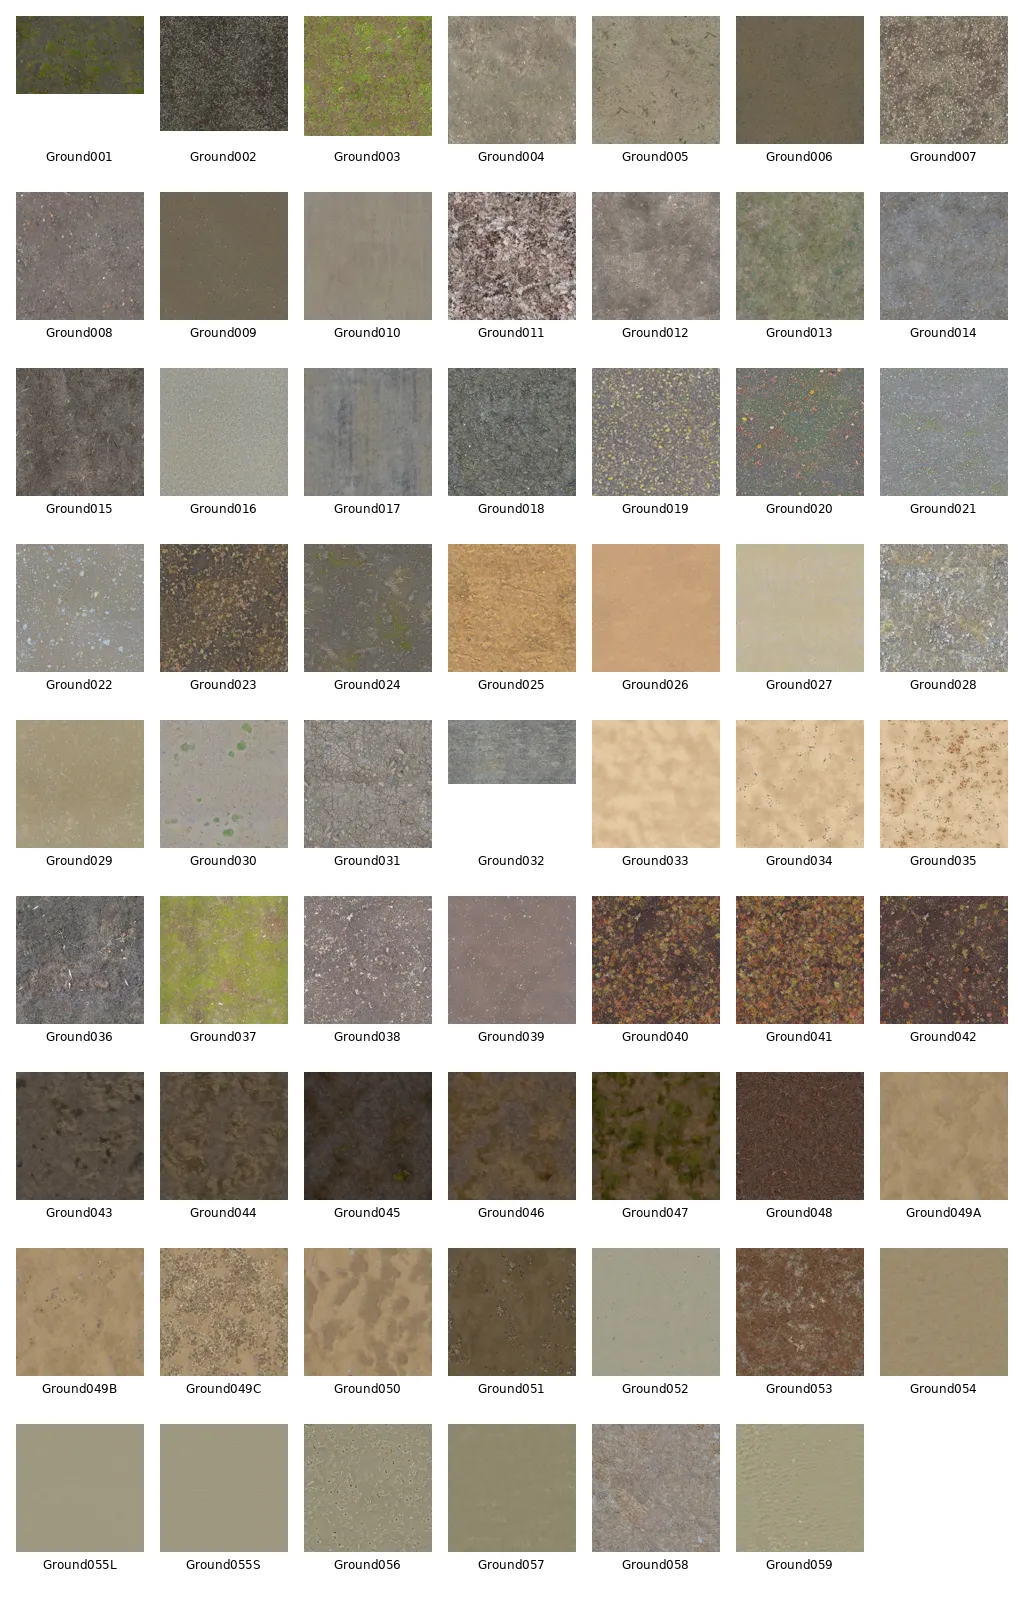
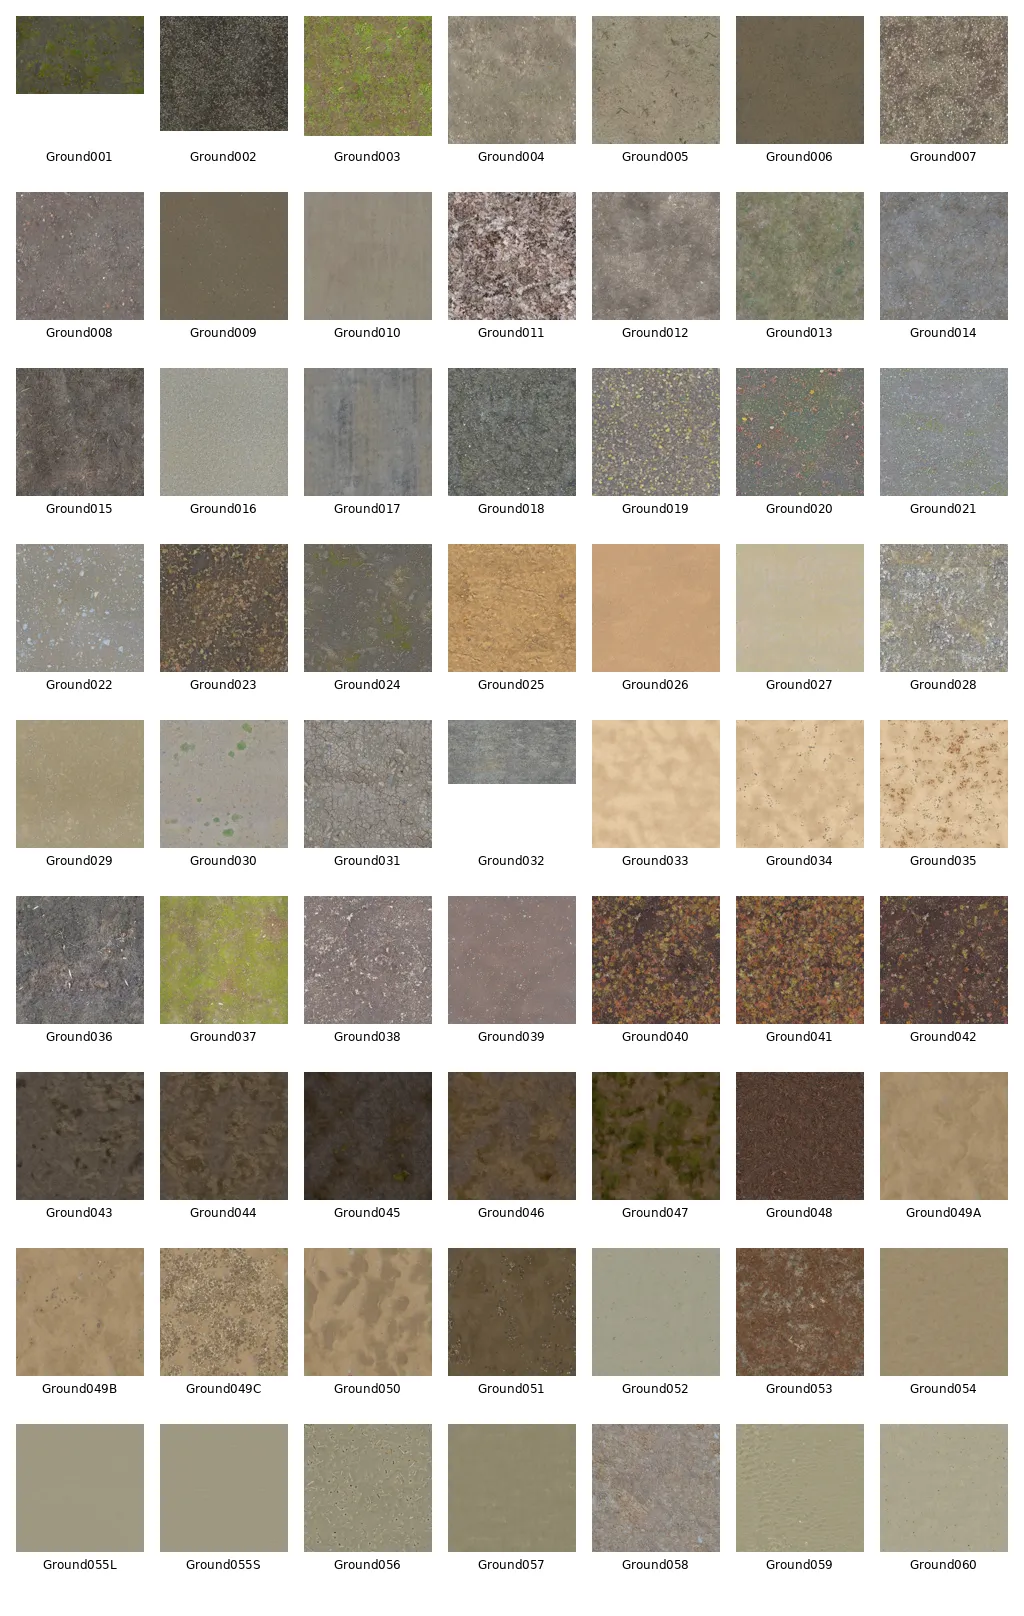
version: v2023.02.27

Changed region(s): [[0.8438, 0.8663, 1.0, 0.9901]]

diff --git a/README.md b/README.md
@@ -5,19 +5,19 @@ The texture are resized to 3 sizes, so you can choose quality.
 
 3 qualities available: 256, 512 and 1024 pixels width.
 
-Current version: 2022.12.31<br>
-Total textures: 1148
+Current version: 2023.02.27<br>
+Total textures: 1173
 
 ## Install
 
 Just download the .sh3t file you want and use the texture library import feature from Sweethome3D from "Furniture" menu.
 
 
-* [ambientcg_1024.sh3t](https://fenouil-drive.mycozy.cloud/public?sharecode=QyiDq6EIACQi) - 172.3 MB
+* [ambientcg_1024.sh3t](https://fenouil-drive.mycozy.cloud/public?sharecode=QyiDq6EIACQi) - 175.2 MB
 
-* [ambientcg_512.sh3t](https://fenouil-drive.mycozy.cloud/public?sharecode=u2Ps0zAB8cij) - 45.5 MB
+* [ambientcg_512.sh3t](https://fenouil-drive.mycozy.cloud/public?sharecode=u2Ps0zAB8cij) - 46.1 MB
 
-* [ambientcg_256.sh3t](https://fenouil-drive.mycozy.cloud/public?sharecode=3gsbVKG3PFBM) - 12.5 MB
+* [ambientcg_256.sh3t](https://fenouil-drive.mycozy.cloud/public?sharecode=3gsbVKG3PFBM) - 12.6 MB
 
 
 ## Missing dimensions
@@ -58,215 +58,220 @@ The current code and content follow the same licence.
 
 ### Asphalt
 <picture>
-  <img alt="Preview of Asphalt" src="https://raw.githubusercontent.com/fabien-michel/sweethome3d-textures-ambientcg/v2022.12.31/previews/Asphalt.webp">
+  <img alt="Preview of Asphalt" src="https://raw.githubusercontent.com/fabien-michel/sweethome3d-textures-ambientcg/v2023.02.27/previews/Asphalt.webp">
+</picture>
+
+### Bamboo
+<picture>
+  <img alt="Preview of Bamboo" src="https://raw.githubusercontent.com/fabien-michel/sweethome3d-textures-ambientcg/v2023.02.27/previews/Bamboo.webp">
 </picture>
 
 ### Bark
 <picture>
-  <img alt="Preview of Bark" src="https://raw.githubusercontent.com/fabien-michel/sweethome3d-textures-ambientcg/v2022.12.31/previews/Bark.webp">
+  <img alt="Preview of Bark" src="https://raw.githubusercontent.com/fabien-michel/sweethome3d-textures-ambientcg/v2023.02.27/previews/Bark.webp">
 </picture>
 
 ### Bricks
 <picture>
-  <img alt="Preview of Bricks" src="https://raw.githubusercontent.com/fabien-michel/sweethome3d-textures-ambientcg/v2022.12.31/previews/Bricks.webp">
+  <img alt="Preview of Bricks" src="https://raw.githubusercontent.com/fabien-michel/sweethome3d-textures-ambientcg/v2023.02.27/previews/Bricks.webp">
 </picture>
 
 ### Cardboard
 <picture>
-  <img alt="Preview of Cardboard" src="https://raw.githubusercontent.com/fabien-michel/sweethome3d-textures-ambientcg/v2022.12.31/previews/Cardboard.webp">
+  <img alt="Preview of Cardboard" src="https://raw.githubusercontent.com/fabien-michel/sweethome3d-textures-ambientcg/v2023.02.27/previews/Cardboard.webp">
 </picture>
 
 ### Carpet
 <picture>
-  <img alt="Preview of Carpet" src="https://raw.githubusercontent.com/fabien-michel/sweethome3d-textures-ambientcg/v2022.12.31/previews/Carpet.webp">
+  <img alt="Preview of Carpet" src="https://raw.githubusercontent.com/fabien-michel/sweethome3d-textures-ambientcg/v2023.02.27/previews/Carpet.webp">
 </picture>
 
 ### Chainmail
 <picture>
-  <img alt="Preview of Chainmail" src="https://raw.githubusercontent.com/fabien-michel/sweethome3d-textures-ambientcg/v2022.12.31/previews/Chainmail.webp">
+  <img alt="Preview of Chainmail" src="https://raw.githubusercontent.com/fabien-michel/sweethome3d-textures-ambientcg/v2023.02.27/previews/Chainmail.webp">
 </picture>
 
 ### Chipboard
 <picture>
-  <img alt="Preview of Chipboard" src="https://raw.githubusercontent.com/fabien-michel/sweethome3d-textures-ambientcg/v2022.12.31/previews/Chipboard.webp">
+  <img alt="Preview of Chipboard" src="https://raw.githubusercontent.com/fabien-michel/sweethome3d-textures-ambientcg/v2023.02.27/previews/Chipboard.webp">
 </picture>
 
 ### Clay
 <picture>
-  <img alt="Preview of Clay" src="https://raw.githubusercontent.com/fabien-michel/sweethome3d-textures-ambientcg/v2022.12.31/previews/Clay.webp">
+  <img alt="Preview of Clay" src="https://raw.githubusercontent.com/fabien-michel/sweethome3d-textures-ambientcg/v2023.02.27/previews/Clay.webp">
 </picture>
 
 ### Concrete
 <picture>
-  <img alt="Preview of Concrete" src="https://raw.githubusercontent.com/fabien-michel/sweethome3d-textures-ambientcg/v2022.12.31/previews/Concrete.webp">
+  <img alt="Preview of Concrete" src="https://raw.githubusercontent.com/fabien-michel/sweethome3d-textures-ambientcg/v2023.02.27/previews/Concrete.webp">
 </picture>
 
 ### Cork
 <picture>
-  <img alt="Preview of Cork" src="https://raw.githubusercontent.com/fabien-michel/sweethome3d-textures-ambientcg/v2022.12.31/previews/Cork.webp">
+  <img alt="Preview of Cork" src="https://raw.githubusercontent.com/fabien-michel/sweethome3d-textures-ambientcg/v2023.02.27/previews/Cork.webp">
 </picture>
 
 ### CorrugatedSteel
 <picture>
-  <img alt="Preview of CorrugatedSteel" src="https://raw.githubusercontent.com/fabien-michel/sweethome3d-textures-ambientcg/v2022.12.31/previews/CorrugatedSteel.webp">
+  <img alt="Preview of CorrugatedSteel" src="https://raw.githubusercontent.com/fabien-michel/sweethome3d-textures-ambientcg/v2023.02.27/previews/CorrugatedSteel.webp">
 </picture>
 
 ### DiamondPlate
 <picture>
-  <img alt="Preview of DiamondPlate" src="https://raw.githubusercontent.com/fabien-michel/sweethome3d-textures-ambientcg/v2022.12.31/previews/DiamondPlate.webp">
+  <img alt="Preview of DiamondPlate" src="https://raw.githubusercontent.com/fabien-michel/sweethome3d-textures-ambientcg/v2023.02.27/previews/DiamondPlate.webp">
 </picture>
 
 ### Fabric
 <picture>
-  <img alt="Preview of Fabric" src="https://raw.githubusercontent.com/fabien-michel/sweethome3d-textures-ambientcg/v2022.12.31/previews/Fabric.webp">
+  <img alt="Preview of Fabric" src="https://raw.githubusercontent.com/fabien-michel/sweethome3d-textures-ambientcg/v2023.02.27/previews/Fabric.webp">
 </picture>
 
 ### GlazedTerracotta
 <picture>
-  <img alt="Preview of GlazedTerracotta" src="https://raw.githubusercontent.com/fabien-michel/sweethome3d-textures-ambientcg/v2022.12.31/previews/GlazedTerracotta.webp">
+  <img alt="Preview of GlazedTerracotta" src="https://raw.githubusercontent.com/fabien-michel/sweethome3d-textures-ambientcg/v2023.02.27/previews/GlazedTerracotta.webp">
 </picture>
 
 ### Granite
 <picture>
-  <img alt="Preview of Granite" src="https://raw.githubusercontent.com/fabien-michel/sweethome3d-textures-ambientcg/v2022.12.31/previews/Granite.webp">
+  <img alt="Preview of Granite" src="https://raw.githubusercontent.com/fabien-michel/sweethome3d-textures-ambientcg/v2023.02.27/previews/Granite.webp">
 </picture>
 
 ### Grass
 <picture>
-  <img alt="Preview of Grass" src="https://raw.githubusercontent.com/fabien-michel/sweethome3d-textures-ambientcg/v2022.12.31/previews/Grass.webp">
+  <img alt="Preview of Grass" src="https://raw.githubusercontent.com/fabien-michel/sweethome3d-textures-ambientcg/v2023.02.27/previews/Grass.webp">
 </picture>
 
 ### Gravel
 <picture>
-  <img alt="Preview of Gravel" src="https://raw.githubusercontent.com/fabien-michel/sweethome3d-textures-ambientcg/v2022.12.31/previews/Gravel.webp">
+  <img alt="Preview of Gravel" src="https://raw.githubusercontent.com/fabien-michel/sweethome3d-textures-ambientcg/v2023.02.27/previews/Gravel.webp">
 </picture>
 
 ### Ground
 <picture>
-  <img alt="Preview of Ground" src="https://raw.githubusercontent.com/fabien-michel/sweethome3d-textures-ambientcg/v2022.12.31/previews/Ground.webp">
+  <img alt="Preview of Ground" src="https://raw.githubusercontent.com/fabien-michel/sweethome3d-textures-ambientcg/v2023.02.27/previews/Ground.webp">
 </picture>
 
 ### Marble
 <picture>
-  <img alt="Preview of Marble" src="https://raw.githubusercontent.com/fabien-michel/sweethome3d-textures-ambientcg/v2022.12.31/previews/Marble.webp">
+  <img alt="Preview of Marble" src="https://raw.githubusercontent.com/fabien-michel/sweethome3d-textures-ambientcg/v2023.02.27/previews/Marble.webp">
 </picture>
 
 ### Metal
 <picture>
-  <img alt="Preview of Metal" src="https://raw.githubusercontent.com/fabien-michel/sweethome3d-textures-ambientcg/v2022.12.31/previews/Metal.webp">
+  <img alt="Preview of Metal" src="https://raw.githubusercontent.com/fabien-michel/sweethome3d-textures-ambientcg/v2023.02.27/previews/Metal.webp">
 </picture>
 
 ### Moss
 <picture>
-  <img alt="Preview of Moss" src="https://raw.githubusercontent.com/fabien-michel/sweethome3d-textures-ambientcg/v2022.12.31/previews/Moss.webp">
+  <img alt="Preview of Moss" src="https://raw.githubusercontent.com/fabien-michel/sweethome3d-textures-ambientcg/v2023.02.27/previews/Moss.webp">
 </picture>
 
 ### OfficeCeiling
 <picture>
-  <img alt="Preview of OfficeCeiling" src="https://raw.githubusercontent.com/fabien-michel/sweethome3d-textures-ambientcg/v2022.12.31/previews/OfficeCeiling.webp">
+  <img alt="Preview of OfficeCeiling" src="https://raw.githubusercontent.com/fabien-michel/sweethome3d-textures-ambientcg/v2023.02.27/previews/OfficeCeiling.webp">
 </picture>
 
 ### Paint
 <picture>
-  <img alt="Preview of Paint" src="https://raw.githubusercontent.com/fabien-michel/sweethome3d-textures-ambientcg/v2022.12.31/previews/Paint.webp">
+  <img alt="Preview of Paint" src="https://raw.githubusercontent.com/fabien-michel/sweethome3d-textures-ambientcg/v2023.02.27/previews/Paint.webp">
 </picture>
 
 ### Paper
 <picture>
-  <img alt="Preview of Paper" src="https://raw.githubusercontent.com/fabien-michel/sweethome3d-textures-ambientcg/v2022.12.31/previews/Paper.webp">
+  <img alt="Preview of Paper" src="https://raw.githubusercontent.com/fabien-michel/sweethome3d-textures-ambientcg/v2023.02.27/previews/Paper.webp">
 </picture>
 
 ### PavingStones
 <picture>
-  <img alt="Preview of PavingStones" src="https://raw.githubusercontent.com/fabien-michel/sweethome3d-textures-ambientcg/v2022.12.31/previews/PavingStones.webp">
+  <img alt="Preview of PavingStones" src="https://raw.githubusercontent.com/fabien-michel/sweethome3d-textures-ambientcg/v2023.02.27/previews/PavingStones.webp">
 </picture>
 
 ### Planks
 <picture>
-  <img alt="Preview of Planks" src="https://raw.githubusercontent.com/fabien-michel/sweethome3d-textures-ambientcg/v2022.12.31/previews/Planks.webp">
+  <img alt="Preview of Planks" src="https://raw.githubusercontent.com/fabien-michel/sweethome3d-textures-ambientcg/v2023.02.27/previews/Planks.webp">
 </picture>
 
 ### Plaster
 <picture>
-  <img alt="Preview of Plaster" src="https://raw.githubusercontent.com/fabien-michel/sweethome3d-textures-ambientcg/v2022.12.31/previews/Plaster.webp">
+  <img alt="Preview of Plaster" src="https://raw.githubusercontent.com/fabien-michel/sweethome3d-textures-ambientcg/v2023.02.27/previews/Plaster.webp">
 </picture>
 
 ### Plastic
 <picture>
-  <img alt="Preview of Plastic" src="https://raw.githubusercontent.com/fabien-michel/sweethome3d-textures-ambientcg/v2022.12.31/previews/Plastic.webp">
+  <img alt="Preview of Plastic" src="https://raw.githubusercontent.com/fabien-michel/sweethome3d-textures-ambientcg/v2023.02.27/previews/Plastic.webp">
 </picture>
 
 ### Porcelain
 <picture>
-  <img alt="Preview of Porcelain" src="https://raw.githubusercontent.com/fabien-michel/sweethome3d-textures-ambientcg/v2022.12.31/previews/Porcelain.webp">
+  <img alt="Preview of Porcelain" src="https://raw.githubusercontent.com/fabien-michel/sweethome3d-textures-ambientcg/v2023.02.27/previews/Porcelain.webp">
 </picture>
 
 ### Road
 <picture>
-  <img alt="Preview of Road" src="https://raw.githubusercontent.com/fabien-michel/sweethome3d-textures-ambientcg/v2022.12.31/previews/Road.webp">
+  <img alt="Preview of Road" src="https://raw.githubusercontent.com/fabien-michel/sweethome3d-textures-ambientcg/v2023.02.27/previews/Road.webp">
 </picture>
 
 ### Rock
 <picture>
-  <img alt="Preview of Rock" src="https://raw.githubusercontent.com/fabien-michel/sweethome3d-textures-ambientcg/v2022.12.31/previews/Rock.webp">
+  <img alt="Preview of Rock" src="https://raw.githubusercontent.com/fabien-michel/sweethome3d-textures-ambientcg/v2023.02.27/previews/Rock.webp">
 </picture>
 
 ### Rocks
 <picture>
-  <img alt="Preview of Rocks" src="https://raw.githubusercontent.com/fabien-michel/sweethome3d-textures-ambientcg/v2022.12.31/previews/Rocks.webp">
+  <img alt="Preview of Rocks" src="https://raw.githubusercontent.com/fabien-michel/sweethome3d-textures-ambientcg/v2023.02.27/previews/Rocks.webp">
 </picture>
 
 ### RoofingTiles
 <picture>
-  <img alt="Preview of RoofingTiles" src="https://raw.githubusercontent.com/fabien-michel/sweethome3d-textures-ambientcg/v2022.12.31/previews/RoofingTiles.webp">
+  <img alt="Preview of RoofingTiles" src="https://raw.githubusercontent.com/fabien-michel/sweethome3d-textures-ambientcg/v2023.02.27/previews/RoofingTiles.webp">
 </picture>
 
 ### Rust
 <picture>
-  <img alt="Preview of Rust" src="https://raw.githubusercontent.com/fabien-michel/sweethome3d-textures-ambientcg/v2022.12.31/previews/Rust.webp">
+  <img alt="Preview of Rust" src="https://raw.githubusercontent.com/fabien-michel/sweethome3d-textures-ambientcg/v2023.02.27/previews/Rust.webp">
 </picture>
 
 ### Snow
 <picture>
-  <img alt="Preview of Snow" src="https://raw.githubusercontent.com/fabien-michel/sweethome3d-textures-ambientcg/v2022.12.31/previews/Snow.webp">
+  <img alt="Preview of Snow" src="https://raw.githubusercontent.com/fabien-michel/sweethome3d-textures-ambientcg/v2023.02.27/previews/Snow.webp">
 </picture>
 
 ### SolarPanel
 <picture>
-  <img alt="Preview of SolarPanel" src="https://raw.githubusercontent.com/fabien-michel/sweethome3d-textures-ambientcg/v2022.12.31/previews/SolarPanel.webp">
+  <img alt="Preview of SolarPanel" src="https://raw.githubusercontent.com/fabien-michel/sweethome3d-textures-ambientcg/v2023.02.27/previews/SolarPanel.webp">
 </picture>
 
 ### Terrazzo
 <picture>
-  <img alt="Preview of Terrazzo" src="https://raw.githubusercontent.com/fabien-michel/sweethome3d-textures-ambientcg/v2022.12.31/previews/Terrazzo.webp">
+  <img alt="Preview of Terrazzo" src="https://raw.githubusercontent.com/fabien-michel/sweethome3d-textures-ambientcg/v2023.02.27/previews/Terrazzo.webp">
 </picture>
 
 ### Tiles
 <picture>
-  <img alt="Preview of Tiles" src="https://raw.githubusercontent.com/fabien-michel/sweethome3d-textures-ambientcg/v2022.12.31/previews/Tiles.webp">
+  <img alt="Preview of Tiles" src="https://raw.githubusercontent.com/fabien-michel/sweethome3d-textures-ambientcg/v2023.02.27/previews/Tiles.webp">
 </picture>
 
 ### Wallpaper
 <picture>
-  <img alt="Preview of Wallpaper" src="https://raw.githubusercontent.com/fabien-michel/sweethome3d-textures-ambientcg/v2022.12.31/previews/Wallpaper.webp">
+  <img alt="Preview of Wallpaper" src="https://raw.githubusercontent.com/fabien-michel/sweethome3d-textures-ambientcg/v2023.02.27/previews/Wallpaper.webp">
 </picture>
 
 ### Wood
 <picture>
-  <img alt="Preview of Wood" src="https://raw.githubusercontent.com/fabien-michel/sweethome3d-textures-ambientcg/v2022.12.31/previews/Wood.webp">
+  <img alt="Preview of Wood" src="https://raw.githubusercontent.com/fabien-michel/sweethome3d-textures-ambientcg/v2023.02.27/previews/Wood.webp">
 </picture>
 
 ### WoodChips
 <picture>
-  <img alt="Preview of WoodChips" src="https://raw.githubusercontent.com/fabien-michel/sweethome3d-textures-ambientcg/v2022.12.31/previews/WoodChips.webp">
+  <img alt="Preview of WoodChips" src="https://raw.githubusercontent.com/fabien-michel/sweethome3d-textures-ambientcg/v2023.02.27/previews/WoodChips.webp">
 </picture>
 
 ### WoodFloor
 <picture>
-  <img alt="Preview of WoodFloor" src="https://raw.githubusercontent.com/fabien-michel/sweethome3d-textures-ambientcg/v2022.12.31/previews/WoodFloor.webp">
+  <img alt="Preview of WoodFloor" src="https://raw.githubusercontent.com/fabien-michel/sweethome3d-textures-ambientcg/v2023.02.27/previews/WoodFloor.webp">
 </picture>
 
 ### WoodSiding
 <picture>
-  <img alt="Preview of WoodSiding" src="https://raw.githubusercontent.com/fabien-michel/sweethome3d-textures-ambientcg/v2022.12.31/previews/WoodSiding.webp">
+  <img alt="Preview of WoodSiding" src="https://raw.githubusercontent.com/fabien-michel/sweethome3d-textures-ambientcg/v2023.02.27/previews/WoodSiding.webp">
 </picture>
